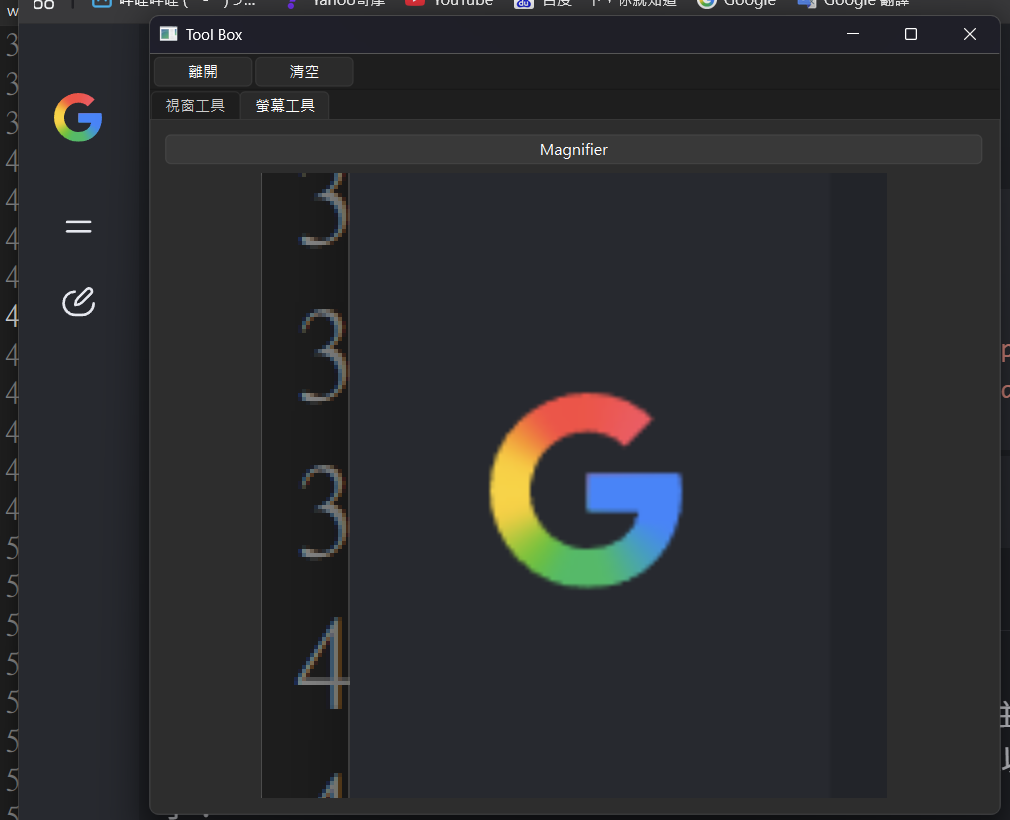
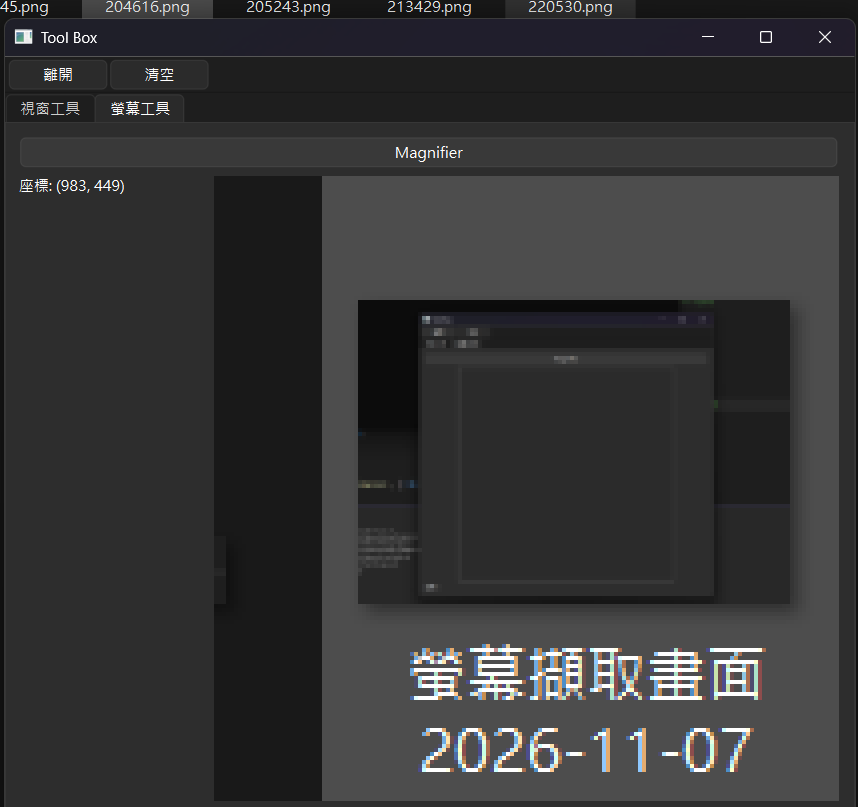
docs:update readme

diff --git a/README.md b/README.md
@@ -3,7 +3,8 @@
 * [TODO -> DONE] 補回功能函式: CLI上運行的功能都沒辦法用了，等UI完成再補回;補完原本的函式功能。
 * [TODO -> DONE] 顯示當前作業統所有的視窗標題
 * [TODO -> DONE] 以視窗標題或窗柄搜尋視窗
-* [TODO -> DONE] 放大鏡:
+* [TODO -> DONE] 放大鏡
+* [DONE] 滑鼠座標顯示
 * [TODO] 顏色採樣:
 * [TODO] 以HWND採樣目標視窗並單獨顯示
 * [TODO] 目標視窗快照
